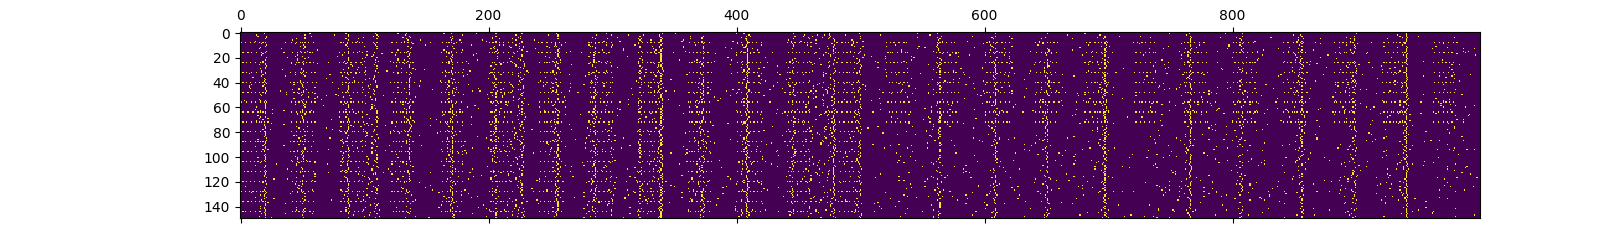
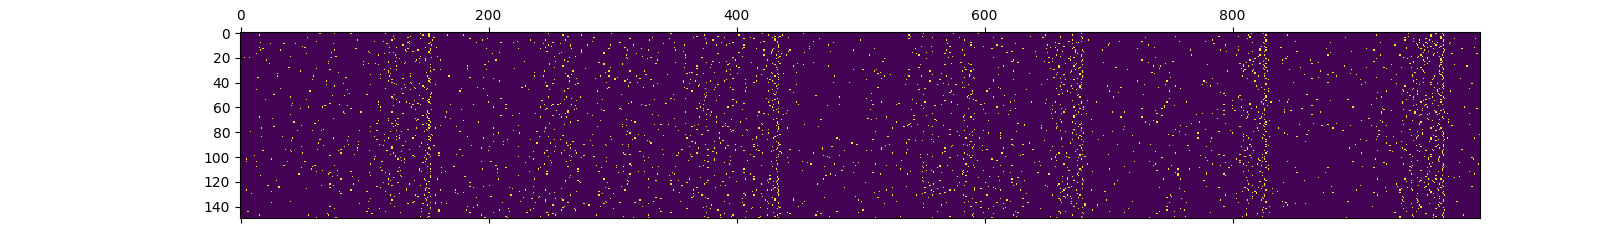
Added class for single axon actor (It's much more efficient than modelling each branch as a standalone actor), removed additional signal (no need in it, STDP already proved to work correctly)

diff --git a/main.py b/main.py
@@ -64,31 +64,6 @@ def main():
                 )
             )
 
-        if system.time < 500.0 and int(system.time) % 40 < 20:
-            for i in range(0, 150, 8):
-                timing = system.time + 0.5
-                value = 10.0
-                target_id = xs[i].id
-                events.append(
-                    Event(
-                        data=ActionPotential(timing=timing, value=value),
-                        timing=timing,
-                        target_id=target_id
-                    )
-                )
-        if system.time > 500.0 and int(system.time) % 40 < 20:
-            for i in range(0, 75, 8):
-                timing = system.time + 0.5
-                value = 10.0
-                target_id = xs[i].id
-                events.append(
-                    Event(
-                        data=ActionPotential(timing=timing, value=value),
-                        timing=timing,
-                        target_id=target_id
-                    )
-                )
-
         system.event_bus.add_events(events)
         system.run(stop_time=system.time + 1)
 
@@ -102,10 +77,6 @@ def main():
 
     senders = {senders[i]: i for i in range(len(senders))}
     spikes = [(senders[sender], timing) for timing, sender in spikes]
-
-    print('Generated spikes:')
-    for sender, timing in spikes:
-        print('    %d => spiked at %.2f milliseconds' % (sender, timing))
 
     print('Total spikes: %d' % len(spikes))
 

diff --git a/simulator/model/neuron/axon/axon.py b/simulator/model/neuron/axon/axon.py
@@ -1,0 +1,13 @@
+from typing import Any
+
+from simulator.core import Actor
+from simulator.model.neuron.axon import DelayedAxonalBranch
+
+
+class Axon(Actor):
+
+    def __init__(self, axonal_branch_proto=DelayedAxonalBranch):
+        pass
+
+    def receive(self, message: Any) -> Any:
+        pass

diff --git a/simulator/model/neuron/dendrite/__init__.py b/simulator/model/neuron/dendrite/__init__.py
@@ -1,2 +1,2 @@
-from .dendrite import DendriteBranch
+from .dendritic_branch import DendriteBranch
 from .linear_dendrite import LinearDendriteBranch

diff --git a/README.md b/README.md
@@ -4,4 +4,4 @@ A very basic event-based spiking network simulator that I built to dive deeper i
 File 'main.py' contains code of simple simulation of 2 randomly connected integrate-and-fire populations with STDP.
 
 Here shown simulated network's first group activity
-![Here shown simulated network's first group activity Logo](/example.png)
+![Network activity plot](/example.png)
